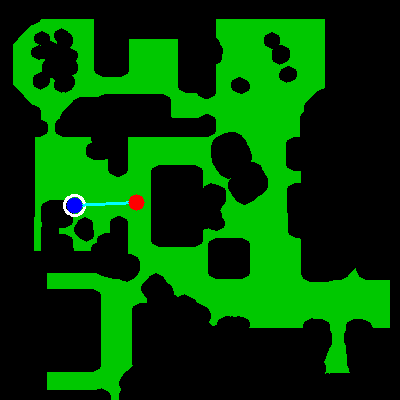
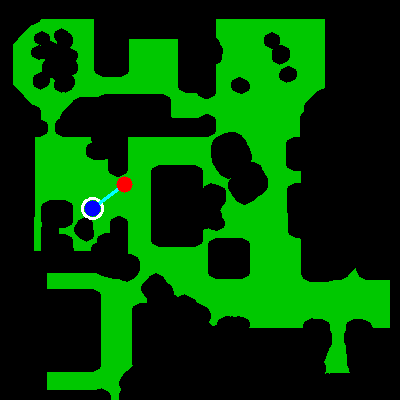
Full workflow from interactive path planning -> robot driving path.

Changed region(s): [[0.15, 0.42, 0.36, 0.57]]

diff --git a/interactive_planner1.py b/interactive_planner1.py
@@ -1,7 +1,7 @@
 #!/usr/bin/env python3
 """
 Interactive path planning - click to set start/goal
-Shows path but doesn't save waypoints.
+revised to save waypoints to planned_path.json
 """
 import cv2
 import numpy as np
@@ -12,6 +12,7 @@ class InteractivePlanner:
         self.planner = PathPlanner()
         self.start = None
         self.goal = None
+        self.current_path = None  # Store the last planned path
         
         # Load planning map for visualization
         self.map_img = cv2.imread('map_planning.png', cv2.IMREAD_GRAYSCALE)
@@ -75,6 +76,7 @@ class InteractivePlanner:
             print(f"\n🔄 Resetting - click new start position")
             self.start = (y, x)
             self.goal = None
+            self.current_path = None
             print(f"✅ Start set: grid({y}, {x}) = world({world_x:.2f}, {world_y:.2f})")
         
         self.update_display()
@@ -92,6 +94,8 @@ class InteractivePlanner:
         path = self.planner.plan(start_x, start_y, goal_x, goal_y)
         
         if path:
+            self.current_path = path  # Store for saving
+            
             # Draw path on display
             for i in range(len(path) - 1):
                 x1, y1 = path[i]
@@ -108,13 +112,47 @@ class InteractivePlanner:
             
             cv2.imshow('Path Planner - Click Start (blue) then Goal (red)', self.display)
             
-            # Save result
+            # Save visualization
             cv2.imwrite('path_result.png', self.display)
             print(f"✅ Saved path_result.png")
-            print(f"\n💡 Click anywhere to plan another path")
+            
+            # Save path JSON for path follower
+            self.planner.save_path(path, 'planned_path.json')
+            
+            print(f"\n💡 Options:")
+            print(f"   • Click anywhere to plan another path")
+            print(f"   • Press 'S' to save path again")
+            print(f"   • Press 'F' to follow this path (runs path_follower.py)")
+            print(f"   • Press ESC/Q to quit")
         else:
+            self.current_path = None
             print(f"❌ No path found!")
             print(f"💡 Click to try different start/goal")
+    
+    def save_current_path(self):
+        """Save current path to JSON"""
+        if self.current_path:
+            filename = input("\nEnter filename (default: planned_path.json): ").strip()
+            if not filename:
+                filename = 'planned_path.json'
+            self.planner.save_path(self.current_path, filename)
+        else:
+            print("❌ No path to save! Plan a path first.")
+    
+    def follow_current_path(self):
+        """Launch path follower with current path"""
+        if self.current_path:
+            print("\n🚀 Launching path follower...")
+            print("   (Close this window or it will continue running)")
+            import subprocess
+            try:
+                subprocess.Popen(['python3', 'path_follower.py', '--path-file', 'planned_path.json'])
+                print("✅ Path follower started!")
+            except Exception as e:
+                print(f"❌ Could not start path follower: {e}")
+                print("💡 Run manually: python3 path_follower.py")
+        else:
+            print("❌ No path to follow! Plan a path first.")
     
     def run(self):
         """Run interactive planner"""
@@ -125,6 +163,8 @@ class InteractivePlanner:
         print("🎯 Click on GREEN area to set GOAL (red circle)")
         print("🚀 Path will be calculated automatically")
         print("🔄 Click again to plan a new path")
+        print("💾 Press 'S' to save path with custom filename")
+        print("🤖 Press 'F' to follow path (launch path_follower.py)")
         print("❌ Press ESC or Q to quit")
         print("=" * 60)
         
@@ -135,8 +175,13 @@ class InteractivePlanner:
         
         while True:
             key = cv2.waitKey(1) & 0xFF
+            
             if key == 27 or key == ord('q'):  # ESC or Q
                 break
+            elif key == ord('s') or key == ord('S'):  # Save
+                self.save_current_path()
+            elif key == ord('f') or key == ord('F'):  # Follow
+                self.follow_current_path()
         
         cv2.destroyAllWindows()
         print("\n👋 Goodbye!")

diff --git a/path_planner.py b/path_planner.py
@@ -1,6 +1,7 @@
 #!/usr/bin/env python3
 """
 A* path planner for occupancy grid maps
+Revised world_to_grid and grid_to_world methods to FLIP the Y axis
 """
 import numpy as np
 import cv2
@@ -52,15 +53,17 @@ class PathPlanner:
     def world_to_grid(self, x, y):
         """Convert world coordinates (meters) to grid coordinates (cells)"""
         col = int((x - self.origin_x) / self.resolution)
-        row = int((y - self.origin_y) / self.resolution)
+        # FLIP Y: high y values should map to LOW row numbers (top of image)
+        row = self.map.shape[0] - 1 - int((y - self.origin_y) / self.resolution)
         return row, col
-    
+
     def grid_to_world(self, row, col):
         """Convert grid coordinates (cells) to world coordinates (meters)"""
         x = col * self.resolution + self.origin_x
-        y = row * self.resolution + self.origin_y
+        # FLIP Y: row 0 (top of image) should be HIGH y value
+        y = (self.map.shape[0] - 1 - row) * self.resolution + self.origin_y
         return x, y
-    
+
     def is_valid(self, row, col):
         """Check if grid cell is valid and free"""
         if row < 0 or row >= self.grid.shape[0]:

diff --git a/interactive_planner2.py b/interactive_planner2.py
@@ -1,6 +1,8 @@
 #!/usr/bin/env python3
 """
 Interactive path planning - click to set start/goal
+revised: added mouse_callback method to notify invalid clicks but
+broke the program. No colored dots & doesn't save to path file.
 """
 import cv2
 import numpy as np

diff --git a/README.md b/README.md
@@ -172,5 +172,21 @@ map → odom → base_link
 # localization.py - Version 2.0
 # Adds particle filter that uses lidar to correct drift
 ```
+## Fixing some broken path planning programs
+* The first hurdle was to discover and fix a problem with the latest version of interactive_planner.py (interactive_planner2.py).
+    * It didn't record user poinht selection, nor did it display a path. So I checked earlier versions.
+    * The first version (interactive_planner0.py) worked to allow the user to pick a start and end point, and would display the path found, but wouldn't save the path to file.
+    * The 2nd version (interactive_planner1.py) fixed this problem and was fully functional.
+* The 2nd hurdle was that the stored path was wrong. The Y values found by the path_planner were wrong. They increased from top to bottom of the image. The cause was failure to invert the Y values when converting from map coordinates to world and vice-versa. Once this was discovered and fixed, it became possible to use the full workflow from path planning to robot driving.
 
+## Workflow with the new Architecture
+0. With the robot powered up and parked in its Home position:
+1. Start the odometer service on the robot
+2. Start the motor_control.py program on the robot. (It is not currently set up as a service.)
+3. ON the laptop, `uv run localization.py`
+4. Set the initial pose by running this in a terminal: `mosquitto_pub -h raspibot.local -t 'robot/initialpose' -m '{"x": 0.7, "y": 2.6, "h": 0.0}'`
+5. On the laptop, `uv run path_follower.py --path-file planned_path.json`
 
+Reaching this goal was an excellent achivement, but as I stated in the beginning, this all starts with having a decent map, and this is where it became clear to me that the map I have been using is about 2/3 of its proper scale. Watching the robot execute a path looked a bit like watching someone with extra-large hands put on a pair of extra small-gloves.
+
+So we're going to cap this off right here and I am going to revisit the task of making a **decent map**.
